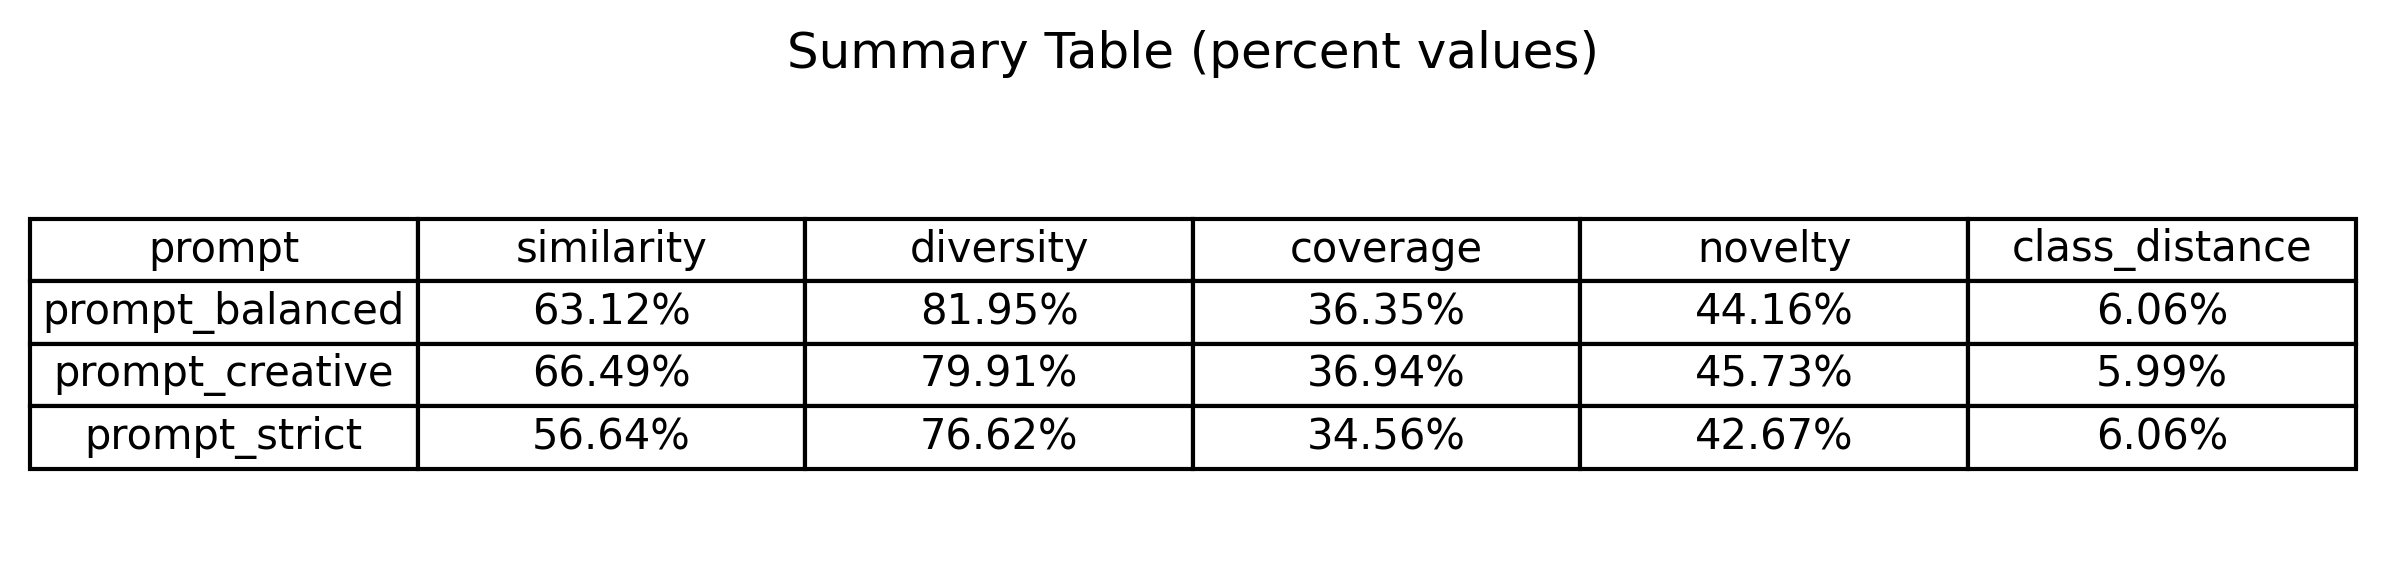
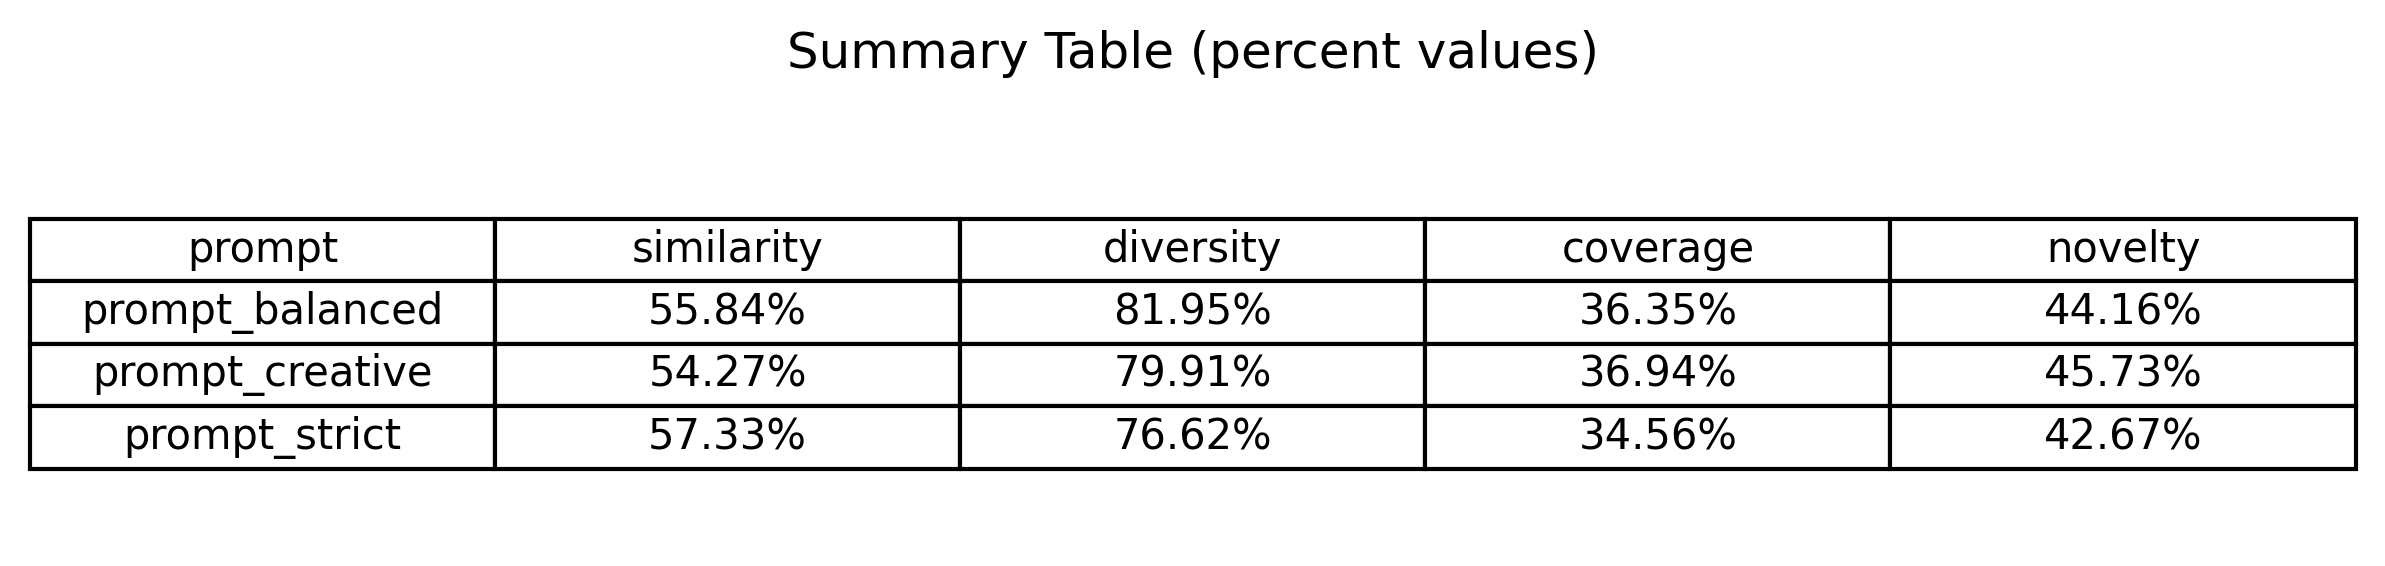
modifiche

diff --git a/GitHub/prompt_exploration/prompt_eval.py b/GitHub/prompt_exploration/prompt_eval.py
@@ -41,81 +41,49 @@ datasets = {
 # REAL EMBEDDINGS
 # =========================
 real_emb = model.encode(real["Text"].tolist(), normalize_embeddings=True)
-real_centroid = np.mean(real_emb, axis=0)
 
 # =========================
 # METRICS
 # =========================
-def compute_metrics(df, real_df):
-    texts = df["Text"].tolist()
+def compute_metrics(real_emb, synth_emb):
 
-    synth_emb = model.encode(texts, normalize_embeddings=True)
-    real_emb_local = model.encode(real_df["Text"].tolist(), normalize_embeddings=True)
-    centroid = np.mean(synth_emb, axis=0)
-    real_centroid = np.mean(real_emb_local, axis=0)
+    sim_rs = cosine_similarity(synth_emb, real_emb)
+    sim_ss = cosine_similarity(synth_emb)
 
-    similarity = cosine_similarity([centroid], [real_centroid])[0][0]
+    # similarity: synthetic -> real
+    similarity = np.mean(np.max(sim_rs, axis=1))
 
-    if len(texts) > 1:
-        sim_matrix = cosine_similarity(synth_emb)
-        upper = sim_matrix[np.triu_indices(len(texts), k=1)]
-        diversity = 1 - np.mean(upper)
+    # coverage: real -> synthetic (FIX IMPORTANTE)
+    coverage = np.mean(np.max(sim_rs, axis=0))
+
+    # diversity: intra-synthetic similarity
+    if len(synth_emb) > 1:
+        diversity = 1 - np.mean(sim_ss[np.triu_indices(len(synth_emb), k=1)])
     else:
         diversity = 0.0
-        
-    coverage = compute_coverage(real_emb_local, synth_emb)
-    novelty = compute_novelty(real_emb_local, synth_emb)
-    class_distance = compute_class_distance(real_df, df)
+
+    # novelty: inverse similarity
+    novelty = 1 - similarity
 
     return {
         "similarity": float(similarity),
-        "diversity": float(diversity),
         "coverage": float(coverage),
-        "novelty": float(novelty),
-        "class_distance": float(class_distance)
+        "diversity": float(diversity),
+        "novelty": float(novelty)
     }
-
-def compute_coverage(real_emb, synth_emb):
-    # per ogni embedding reale, trova il più simile nel sintetico
-    sim_matrix = cosine_similarity(real_emb, synth_emb)
-    max_sim = np.max(sim_matrix, axis=1)
-    return float(np.mean(max_sim))
-
-
-def compute_novelty(real_emb, synth_emb):
-    # per ogni sintetico, quanto è distante dal reale
-    sim_matrix = cosine_similarity(synth_emb, real_emb)
-    max_sim = np.max(sim_matrix, axis=1)
-    return float(1 - np.mean(max_sim))
-
-def compute_class_distance(real_df, synth_df):
-    real_dist = real_df["Polarity"].value_counts(normalize=True)
-    synth_dist = synth_df["Polarity"].value_counts(normalize=True)
-
-    all_classes = set(real_dist.index).union(set(synth_dist.index))
-
-    distance = 0.0
-    for c in all_classes:
-        p_real = real_dist.get(c, 0.0)
-        p_synth = synth_dist.get(c, 0.0)
-        distance += abs(p_real - p_synth)
-
-    return float(distance / len(all_classes))
 
 # =========================
 # TASK (LANGFUSE)
 # =========================
 def task(item):
     df = pd.DataFrame(item["input"])
-    metrics = compute_metrics(df, real)
+
+    synth_emb = model.encode(df["Text"].tolist(), normalize_embeddings=True)
+    metrics = compute_metrics(real_emb, synth_emb)
 
     return {
         "prompt": item["id"],
-        "similarity": metrics["similarity"],
-        "diversity": metrics["diversity"],
-        "coverage": metrics["coverage"],
-        "novelty": metrics["novelty"],
-        "class_distance": metrics["class_distance"]
+        **metrics
     }
 
 # =========================
@@ -132,10 +100,6 @@ def eval_coverage(**kwargs):
 
 def eval_novelty(**kwargs):
     return kwargs.get("output", {}).get("novelty", 0.0)
-
-def eval_class_distance(**kwargs):
-    return kwargs.get("output", {}).get("class_distance", 0.0)
-
 
 # =========================
 # EXPERIMENT DATA
@@ -156,9 +120,9 @@ result = langfuse.run_experiment(
     run_name="run_1",
     data=experiment_data,
     task=task,
-    evaluators=[eval_similarity, eval_diversity, eval_coverage, eval_novelty, eval_class_distance],
+    evaluators=[eval_similarity, eval_diversity, eval_coverage, eval_novelty],
     metadata={
-        "model": "llama3.2:1b",
+        "model": "all-MiniLM-L6-v2",
         "task": "synthetic_dataset_evaluation"
     }
 )
@@ -169,24 +133,21 @@ print(result)
 # EXPORT RAW RESULTS
 # =========================
 rows = []
-for item in experiment_data:
-    df = pd.DataFrame(item["input"])
-    metrics = compute_metrics(df, real)
+
+for name, df in datasets.items():
+    synth_emb = model.encode(df["Text"].tolist(), normalize_embeddings=True)
+    metrics = compute_metrics(real_emb, synth_emb)
 
     rows.append({
-        "prompt": item["id"],
-        "similarity": metrics["similarity"],
-        "diversity": metrics["diversity"],
-        "coverage": metrics["coverage"],
-        "novelty": metrics["novelty"],
-        "class_distance": metrics["class_distance"]
+        "prompt": name,
+        **metrics
     })
 
 with open("experiment_raw_results.json", "w", encoding="utf-8") as f:
     json.dump(rows, f, indent=2, ensure_ascii=False)
 
 # =========================
-# SUMMARY + RANKINGS (LIGHTWEIGHT)
+# SUMMARY + RANKINGS
 # =========================
 df = pd.DataFrame(rows)
 
@@ -194,23 +155,21 @@ summary = df.groupby("prompt").agg(
     similarity_mean=("similarity", "mean"),
     diversity_mean=("diversity", "mean"),
     coverage_mean=("coverage", "mean"),
-    novelty_mean=("novelty", "mean"),
-    class_distance_mean=("class_distance", "mean")
+    novelty_mean=("novelty", "mean")
 ).reset_index()
 
 rankings = {
     "ranking_similarity": df.groupby("prompt")["similarity"].mean().sort_values(ascending=False).to_dict(),
     "ranking_diversity": df.groupby("prompt")["diversity"].mean().sort_values(ascending=False).to_dict(),
     "ranking_coverage": df.groupby("prompt")["coverage"].mean().sort_values(ascending=False).to_dict(),
-    "ranking_novelty": df.groupby("prompt")["novelty"].mean().sort_values(ascending=False).to_dict(),
-    "ranking_class_distance": df.groupby("prompt")["class_distance"].mean().sort_values(ascending=False).to_dict()
+    "ranking_novelty": df.groupby("prompt")["novelty"].mean().sort_values(ascending=False).to_dict()
 }
 
 with open("experiment_rankings.json", "w", encoding="utf-8") as f:
     json.dump(rankings, f, indent=2, ensure_ascii=False)
 
 # =========================
-# SINGLE TESI-READY PLOT
+# PLOT (BAR CHART)
 # =========================
 plot_df = summary.set_index("prompt")
 
@@ -221,41 +180,33 @@ ax.set_xlabel("prompt")
 
 plt.xticks(rotation=0)
 
-# =========================
-# VALUE LABELS ON TOP
-# =========================
 for container in ax.containers:
-    ax.bar_label(
-        container,
-        fmt="%.2f",
-        padding=3,
-        fontsize=9
-    )
+    ax.bar_label(container, fmt="%.2f", padding=3, fontsize=9)
 
-plt.ylim(0, 1)  # utile per leggibilità (similarity/diversity sono 0-1)
-
+plt.ylim(0, 1)
 plt.tight_layout()
 plt.savefig("prompt_comparison_chart.png", dpi=300)
 plt.show()
 
-# TABELLA
+# =========================
+# TABLE
+# =========================
+summary_table = plot_df[[
+    "similarity_mean",
+    "diversity_mean",
+    "coverage_mean",
+    "novelty_mean"
+]].reset_index()
 
-summary_table = plot_df[["similarity_mean", "diversity_mean", "coverage_mean", "novelty_mean", "class_distance_mean"]].copy()
+summary_table.columns = ["prompt", "similarity", "diversity", "coverage", "novelty"]
 
-summary_table = summary_table.reset_index()
-
-summary_table.columns = ["prompt", "similarity", "diversity", "coverage", "novelty", "class_distance"]
-
-# coversione percentuale
 summary_table["similarity"] = (summary_table["similarity"] * 100).round(2).astype(str) + "%"
 summary_table["diversity"] = (summary_table["diversity"] * 100).round(2).astype(str) + "%"
 summary_table["coverage"] = (summary_table["coverage"] * 100).round(2).astype(str) + "%"
 summary_table["novelty"] = (summary_table["novelty"] * 100).round(2).astype(str) + "%"
-summary_table["class_distance"] = (summary_table["class_distance"] * 100).round(2).astype(str) + "%"
 
 fig, ax = plt.subplots(figsize=(8, 2))
-
-ax.axis("off")  # nasconde assi
+ax.axis("off")
 
 table = ax.table(
     cellText=summary_table.values,
@@ -269,7 +220,6 @@ table.set_fontsize(10)
 table.scale(1.2, 1.5)
 
 plt.title("Summary Table (percent values)", pad=20)
-
 plt.tight_layout()
 plt.savefig("experiment_summary_table.png", dpi=300, bbox_inches="tight")
 plt.show()
@@ -278,36 +228,34 @@ print("\n=== SUMMARY TABLE ===")
 print(summary_table)
 
 # =========================
-# RADAR PREPARATION
+# RADAR CHART
 # =========================
-
-metrics = ["similarity_mean", "diversity_mean", "coverage_mean", "novelty_mean", "class_distance_mean"]
+metrics = ["similarity_mean", "diversity_mean", "coverage_mean", "novelty_mean"]
 
 radar_df = summary.set_index("prompt")[metrics]
 
-# normalizzazione 0-1 (importante per confronto corretto)
-radar_norm = (radar_df - radar_df.min()) / (radar_df.max() - radar_df.min())
+radar_norm = (radar_df - radar_df.min()) / (radar_df.max() - radar_df.min() + 1e-8)
 
-labels = ["Similarity", "Diversity", "Coverage", "Novelty", "Class Distance"]
+labels = ["Similarity", "Diversity", "Coverage", "Novelty"]
 num_vars = len(labels)
 
 angles = np.linspace(0, 2 * np.pi, num_vars, endpoint=False).tolist()
-angles += angles[:1]  # chiusura cerchio
+angles += angles[:1]
 
 fig, ax = plt.subplots(figsize=(7, 7), subplot_kw=dict(polar=True))
 
 for prompt in radar_norm.index:
     values = radar_norm.loc[prompt].tolist()
-    values += values[:1]  # chiusura
+    values += values[:1]
 
     ax.plot(angles, values, linewidth=2, label=prompt)
     ax.fill(angles, values, alpha=0.1)
-    
+
 ax.set_xticks(angles[:-1])
 ax.set_xticklabels(labels)
+ax.set_ylim(0, 1)
 
 ax.set_title("Synthetic Prompt Evaluation Radar", pad=20)
-
 ax.legend(loc="upper right", bbox_to_anchor=(1.3, 1.1))
 
 plt.tight_layout()
